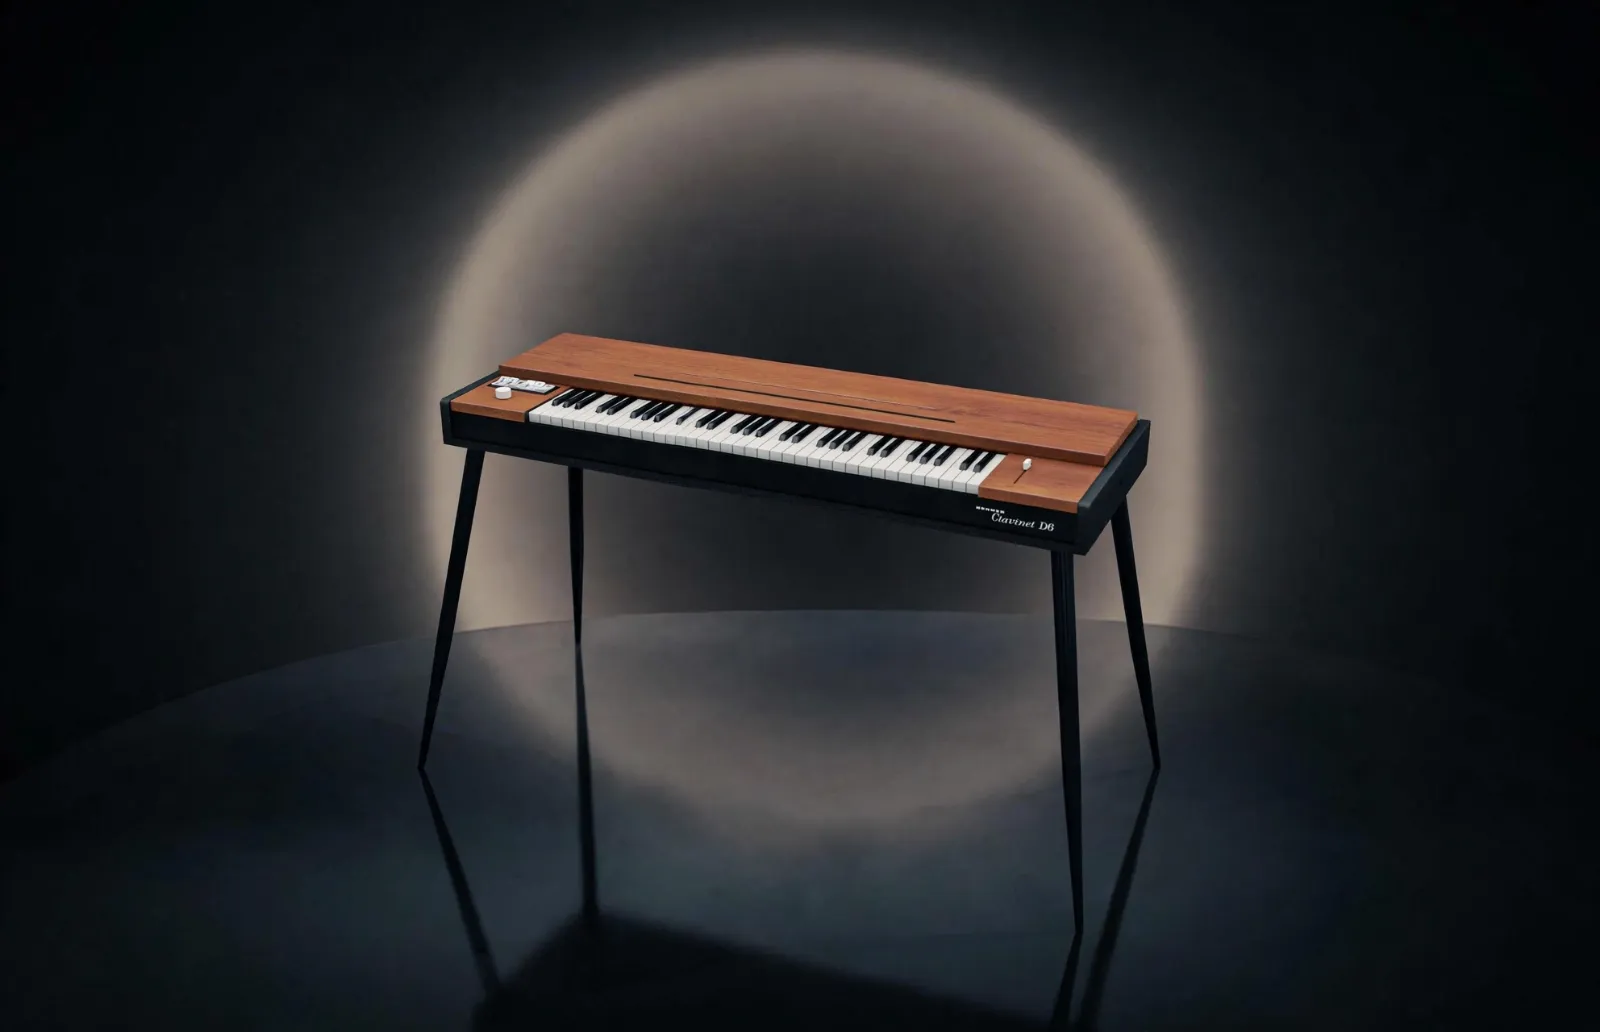
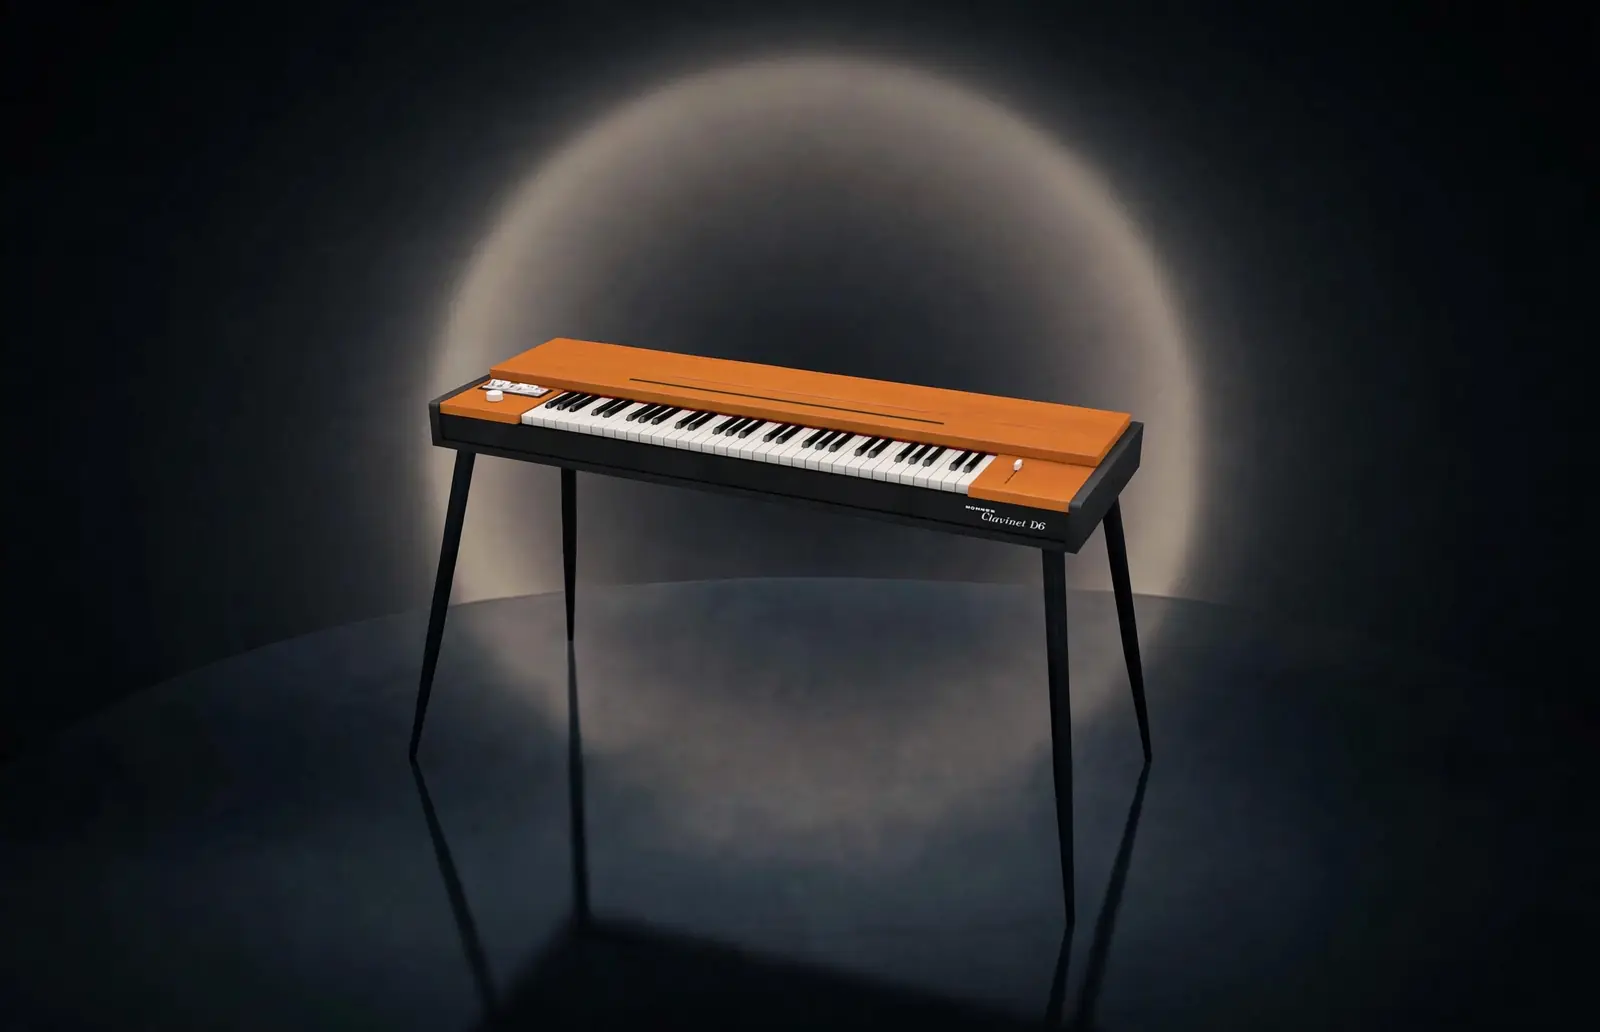
Room/Body knobs double as toggles; shorter note roll; install-check spinner
- Modelled: the simple view's Room and Body knobs are the on/off toggle and
  the amount in one. Fully left bypasses; turning up enables and sets it.
- Note roll about half as tall on both pianos; bars fade evenly from the keys,
  and long-held notes thin toward their bottom.
- Sampled: spinner on the start screen until the install state is known;
  resonance shows as the glow, not lit keys, in the simple view.
- New Clavinet photo and alt text.

diff --git a/sampled/index.html b/sampled/index.html
@@ -38,7 +38,7 @@ main>div{display:contents}
 .exp{background:var(--panel2);border:1px solid var(--line);border-radius:6px;padding:8px 10px;margin:8px 0}
 .exp-h{font-size:12px;color:var(--dim);margin:0 0 6px}
 #kb{position:relative;user-select:none;overflow-x:auto;touch-action:pan-x;border-radius:10px;background:#090c11}
-#stage{display:block;width:100%;min-width:760px;height:clamp(150px,34vh,420px)}
+#stage{display:block;width:100%;min-width:760px;height:clamp(84px,19vh,235px)}
 #kbInner{position:relative;width:100%;min-width:760px;height:clamp(110px,17vh,170px);border-top:2px solid #3e485d}
 .wk{position:absolute;top:0;background:linear-gradient(#fbf7ef,#ddd5c6);border:1px solid #4e5b74;border-radius:0 0 4px 4px;cursor:pointer}
 .wk.sel{background:linear-gradient(#eee4d3,#dfd5c5)}
@@ -147,6 +147,13 @@ h3.lbl{font-size:13px;font-weight:600;color:var(--ink);margin:0 0 6px}
 .tip-pop table{min-width:300px}
 .tip-pop .stat{display:block}
 #overlay .lead{color:var(--ink);font-size:15px;margin:6px 0 18px}
+/* Until the page has read what is on disk, a spinner instead of the start
+   screen, so the install box, uninstall button and tips don't appear and vanish. */
+#startView{position:relative}
+#startView.checking>*{visibility:hidden}
+#startView.checking::after{content:"";position:absolute;left:50%;top:50%;width:20px;height:20px;margin:-10px 0 0 -10px;
+  border:2px solid var(--line);border-top-color:var(--accent);border-radius:50%;animation:spin .8s linear infinite}
+@keyframes spin{to{transform:rotate(360deg)}}
 /* Simple view: the picture, the keyboard and a few knobs. Settings shows the rest. */
 body.simple .panel:not(#stagePanel):not(#mixPanel),body.simple .full-only{display:none}
 body:not(.simple) #mixPanel{display:none}
@@ -161,7 +168,7 @@ body.simple #hero{display:block}
 body.simple header{background:transparent;border-bottom-color:transparent}
 body.simple main{min-height:calc(100vh - 56px);min-height:calc(100svh - 56px);padding-top:0}
 body.simple #stagePanel{background:none;border:none;box-shadow:none;padding:0}
-body.simple{--roll:clamp(150px,36vh,420px)}
+body.simple{--roll:clamp(84px,20.2vh,235px)}
 body.simple #stage{height:var(--roll)}
 /* The notes rise over the photo; only the keyboard sits below it. */
 body.simple #stagePanel{position:relative;z-index:1;margin-top:calc(-1 * var(--roll))}
@@ -171,6 +178,9 @@ body.simple #kb{background:transparent;border-radius:6px}
 body.simple #kbInner{border-top:none;box-shadow:0 -1px 0 rgba(189,168,133,.35),0 20px 40px -20px #000}
 body.simple .wk.sel:not(.dn):not(.res):not(.sil){background:linear-gradient(#fbf7ef,#ddd5c6)}
 body.simple .bk.sel:not(.dn):not(.res):not(.sil){background:linear-gradient(#29303d,#0c1017)}
+/* Resonance shows as the glow above the keys, not as lit keys. */
+body.simple .wk.res:not(.dn):not(.sil){background:linear-gradient(#fbf7ef,#ddd5c6)}
+body.simple .bk.res:not(.dn):not(.sil){background:linear-gradient(#29303d,#0c1017)}
 #stagePanel{padding:6px;border:1px solid transparent;border-radius:14px;
   background:linear-gradient(var(--panel),var(--panel)) padding-box,linear-gradient(135deg,#897556,#232d41 40%,#2c3a4a 70%,#8da1be) border-box;
   box-shadow:0 18px 40px -22px #000,0 0 0 1px #0006 inset}
@@ -196,14 +206,14 @@ body.simple .bk.sel:not(.dn):not(.res):not(.sil){background:linear-gradient(#293
 </style>
 </head>
 <body class="simple">
-<div id="overlay"><div id="startView">
+<div id="overlay"><div id="startView" class="checking">
   <h1 style="font-size:20px;margin-bottom:6px">Classic grand piano</h1>
   <p class="lead" data-tip-anchor>A recorded Yamaha C5 grand</p>
   <p data-tip>A Yamaha C5, recorded. One dedicated sample per key per velocity layer — 88 × 16,
      repitched off the Salamander library with the instrument's own body response held
      still — played by an engine with per-key velocity response, stereo spread, a
      geometric room, and sympathetic resonance that accumulates while the pedal is down.</p>
-  <label id="installOffer" class="installOpt">
+  <label id="installOffer" class="installOpt" hidden>
     <input type="checkbox" id="installChk" checked>
     <span><span id="installLbl">Download samples for smoother playing (2.6 GB)</span><span data-tip-anchor></span><span data-tip>Keeps a decoded copy of every sample in this browser's storage, so notes don't have to be decoded while you play. It takes about 2.6 GB on your disk, downloads once, and can be uninstalled from this page later.</span></span>
   </label>

diff --git a/sampled/src/stage.js b/sampled/src/stage.js
@@ -9,6 +9,7 @@ const WHITE = [0, 2, 4, 5, 7, 9, 11];
 const isBlack = (m) => !WHITE.includes(m % 12);
 const SPEED = 70;        // CSS px per second the bars rise
 const MAX_NOTES = 400;
+const LONG_NOTE = 3;     // seconds held at which a bar's bottom is thinnest
 
 /** Key m's left edge and width as fractions of the keyboard, as keyboard.js lays it out. */
 export function keyGeometry(lo, hi) {
@@ -81,14 +82,18 @@ export function createStage(canvas, { lo, hi, res }) {
 
     // Notes, rising.
     const px = SPEED * dpr;
-    const fadeUp = ([r, gg, b]) => {
-      const f = g.createLinearGradient(0, h, 0, 0);
-      f.addColorStop(0, `rgba(${r},${gg},${b},0.95)`);
-      f.addColorStop(0.6, `rgba(${r},${gg},${b},0.35)`);
-      f.addColorStop(1, `rgba(${r},${gg},${b},0)`);
+    // Each bar is its colour times two fades: the area's, even from the keys
+    // (80%) to nothing at the top, and the note's own, which thins its bottom
+    // end the longer it is held -- a short note stays solid, a long one trails off.
+    const fill = ([r, gg, b], top, bottom, thin) => {
+      const f = g.createLinearGradient(0, top, 0, bottom);
+      for (let s = 0; s <= 4; s++) {
+        const u = s / 4, y = top + u * (bottom - top);
+        const a = 0.8 * Math.max(0, y / h) * (1 - thin * u);
+        f.addColorStop(u, `rgba(${r},${gg},${b},${a.toFixed(3)})`);
+      }
       return f;
     };
-    const fills = [fadeUp(WHITE_NOTE), fadeUp(BLACK_NOTE)];
     g.shadowColor = 'rgba(221,199,165,0.55)';
     g.shadowBlur = 8 * dpr;
     let live = false;
@@ -100,9 +105,12 @@ export function createStage(canvas, { lo, hi, res }) {
       live = true;
       const k = geo.get(n.m);
       const bw = Math.max(2 * dpr, k.w * w * 0.55), x = k.x * w + (k.w * w - bw) / 2;
-      // A thin bar with a soft glow, fading toward the top.
-      g.fillStyle = fills[k.black ? 1 : 0];
-      roundRect(g, x, top, bw, Math.max(2 * dpr, bottom - top), bw / 2);
+      const held = (n.t1 ?? t) - n.t0;
+      const thin = 0.85 * Math.min(1, held / LONG_NOTE);
+      // A thin bar, barely rounded, with a soft glow.
+      g.fillStyle = fill(k.black ? BLACK_NOTE : WHITE_NOTE, top, bottom, thin);
+      g.beginPath();
+      g.roundRect(x, top, bw, Math.max(2 * dpr, bottom - top), 2 * dpr);
       g.fill();
     }
     g.shadowBlur = 0;
@@ -138,14 +146,4 @@ export function createStage(canvas, { lo, hi, res }) {
       if (ringing || lastRes) start();
     },
   };
-}
-
-function roundRect(g, x, y, w, h, r) {
-  g.beginPath();
-  g.moveTo(x + r, y);
-  g.arcTo(x + w, y, x + w, y + h, r);
-  g.arcTo(x + w, y + h, x, y + h, r);
-  g.arcTo(x, y + h, x, y, r);
-  g.arcTo(x, y, x + w, y, r);
-  g.closePath();
 }

diff --git a/modelled/src/main.js b/modelled/src/main.js
@@ -670,8 +670,36 @@ wireMenu();
 // ------------------------------------------------------------ simple view --
 // By default only the photo, the keyboard with its notes, and a few knobs;
 // Settings shows every control. Remembered in this browser.
-const knobs = [['gain', 'Volume'], ['rMix', 'Room'], ['bc', 'Resonance'], ['cmix', 'Body']]
-  .map(([id, label]) => knob($(id), label, $(id + 'V')));
+// Room and Body are the toggle and the amount in one knob: all the way left is
+// bypassed, anything above it enables and sets the amount. A stand-in range,
+// kept out of the page so it is never saved, reads 0 whenever the toggle is off.
+function toggleKnob(btn, amount, label) {
+  const v = document.createElement('input');
+  Object.assign(v, { type: 'range', min: 0, max: amount.max, step: amount.step });
+  v.defaultValue = amount.defaultValue;
+  const out = document.createElement('output');
+  const pull = () => {
+    const on = btn.classList.contains('on');
+    v.value = on ? amount.value : 0;
+    out.textContent = on ? $(amount.id + 'V').textContent : 'off';
+  };
+  v.addEventListener('input', () => {
+    const x = +v.value;
+    if (btn.classList.contains('on') !== x > 0) btn.click();
+    if (x > 0) { amount.value = x; amount.dispatchEvent(new Event('input', { bubbles: true })); }
+    pull();
+  });
+  v.addEventListener('change', () => amount.dispatchEvent(new Event('change', { bubbles: true })));
+  pull();
+  const k = knob(v, label, out);
+  return { el: k.el, sync: () => { pull(); k.sync(); } };
+}
+const knobs = [
+  knob($('gain'), 'Volume', $('gainV')),
+  toggleKnob($('roomBtn'), $('rMix'), 'Room'),
+  knob($('bc'), 'Resonance', $('bcV')),
+  toggleKnob($('bodyBtn'), $('cmix'), 'Body'),
+];
 for (const k of knobs) $('knobs').appendChild(k.el);
 setInterval(() => { if (document.body.classList.contains('simple')) for (const k of knobs) k.sync(); }, 250);
 const VIEW = 'modelled.view';
@@ -702,3 +730,4 @@ localStorage.removeItem(LEGACY_OFFSETS);
   try { applySettings(stored); } catch (err) { console.error('stored settings ignored', err); }
 }
 uiReady = true;
+for (const k of knobs) k.sync();

diff --git a/modelled/index.html b/modelled/index.html
@@ -68,7 +68,7 @@ h3{font-size:13px;color:var(--ink);margin:0 0 6px;font-weight:600}
 #overlay .lead{color:var(--ink);font-size:15px;margin:6px 0 18px}
 /* keyboard, menu, tooltips, simple view and knobs: as on the sampled piano */
 #kb{position:relative;user-select:none;overflow-x:auto;touch-action:pan-x;border-radius:10px;background:#090c11}
-#stage{display:block;width:100%;min-width:760px;height:clamp(150px,34vh,420px)}
+#stage{display:block;width:100%;min-width:760px;height:clamp(84px,19vh,235px)}
 #kbInner{position:relative;width:100%;min-width:760px;height:clamp(110px,17vh,170px);border-top:2px solid #3e485d}
 .wk{position:absolute;top:0;background:linear-gradient(#fbf7ef,#ddd5c6);border:1px solid #4e5b74;border-radius:0 0 4px 4px;cursor:pointer}
 .wk.sel{background:linear-gradient(#eee4d3,#dfd5c5)}
@@ -120,7 +120,7 @@ body.simple #hero{display:block}
 body.simple header{background:transparent;border-bottom-color:transparent}
 body.simple main{min-height:calc(100vh - 56px);min-height:calc(100svh - 56px);padding-top:0}
 body.simple #stagePanel{background:none;border:none;box-shadow:none;padding:0}
-body.simple{--roll:clamp(150px,36vh,420px)}
+body.simple{--roll:clamp(84px,20.2vh,235px)}
 body.simple #stage{height:var(--roll)}
 /* The notes rise over the photo; only the keyboard sits below it. */
 body.simple #stagePanel{position:relative;z-index:1;margin-top:calc(-1 * var(--roll))}

diff --git a/index.html b/index.html
@@ -43,7 +43,7 @@ kbd{border:1px solid var(--line);border-radius:4px;padding:0 5px;font:12px/1.4 i
       <div class="txt"><h2>Classic grand piano</h2><p>A recorded Yamaha C5</p></div>
     </a>
     <a class="card" href="modelled/" title="Physically modelled: every string is its own waveguide, all meeting at a shared bridge. Unison beating and sympathetic resonance fall out of the physics.">
-      <div class="ph"><img src="img/clavinet.webp" alt="A wood-cased electric keyboard on chrome legs with a pedal" width="1548" height="1016"></div>
+      <div class="ph"><img src="img/clavinet.webp" alt="A wood-topped Clavinet D6 on four slim black legs, lit from behind" width="1600" height="1032"></div>
       <div class="txt"><h2>Electric clavinet</h2><p>Physically modelled strings</p></div>
     </a>
   </div>

diff --git a/sampled/src/main.js b/sampled/src/main.js
@@ -1182,5 +1182,5 @@ $('uninstallBtn').onclick = async () => {
   un.disabled = false;
   await offerInstall();
 };
-offerInstall();
 tipify();
+offerInstall().finally(() => $('startView').classList.remove('checking'));
